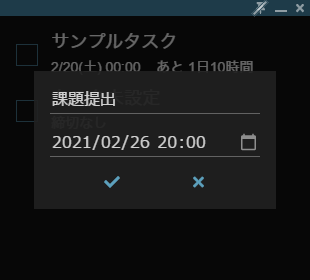
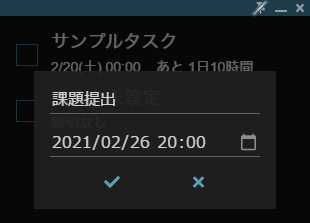
画像をトリミング

diff --git a/README.md b/README.md
@@ -18,9 +18,7 @@
 
 ## 使い方
 
-### タスク操作
-
-#### タスク追加
+### タスク追加
 
 1. タスクの下にマウスホバーすると **横線** が出てくるので、クリックします。
 
@@ -42,7 +40,7 @@
 
 ![タスクが追加された](screenshot/add_task/6.png)
 
-#### タスク編集
+### タスク編集
 
 1. 既存のタスクにマウスホバーすると右側に **編集ボタン** が出てくるので、クリックします。
 
@@ -56,7 +54,7 @@
 
 ![タスクが編集された](screenshot/edit_task/3.png)
 
-#### タスク削除
+### タスク削除
 
 1. 既存のタスクにマウスホバーすると右側に **ゴミ箱ボタン** が出てくるので、クリックします。
 
@@ -66,7 +64,7 @@
 
 ![タスクが削除された](screenshot/delete_task/2.png)
 
-#### 完了ステータス変更
+### 完了ステータス変更
 
 1. 既存のタスクにマウスホバーし、クリックします。
 
@@ -83,9 +81,7 @@
 
 ![タスクが編集された](screenshot/complete_task/5.png)
 
-### アプリ操作
-
-#### 常に最前面に表示
+### 常に最前面に表示
 
 上部バーの **画鋲アイコン** をクリックすると、常に最前面に表示するかどうかを切り替えることができます。
 
@@ -98,7 +94,7 @@
 
 ![常に最前面に表示 ON](screenshot/alwaysontop/2.png)
 
-#### アプリ最小化
+### アプリ最小化
 
 2通りの方法があります。
 
@@ -110,7 +106,7 @@
 
 ![最小化](screenshot/minimize/2.png)
 
-#### アプリ終了
+### アプリ終了
 
 3通りの方法があります。
 
@@ -126,7 +122,7 @@
 
 ![終了](screenshot/close/3.png)
 
-#### アプリ再表示
+### アプリ再表示
 
 2通りの方法があります。
 
